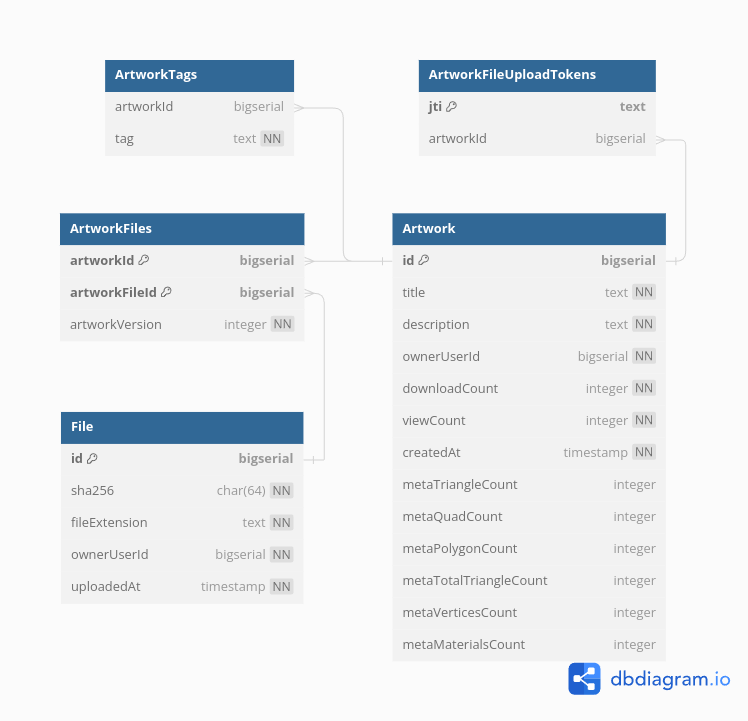
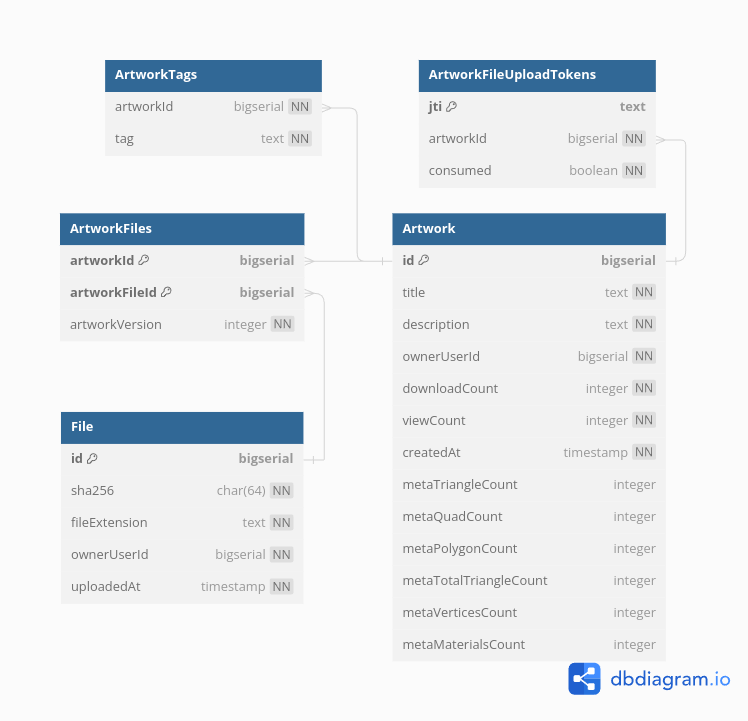
Updated tables (again again again)

Changed region(s): [[0.3075, 0.061, 0.4305, 0.2136], [0.7687, 0.1831, 0.861, 0.2441], [0.5842, 0.2136, 0.6457, 0.2441]]

diff --git a/mkdocs/site/developers/database/tables/index.html b/mkdocs/site/developers/database/tables/index.html
@@ -171,8 +171,9 @@ Table ArtworkTags {
   tag text [not null]
 }
 
-Table ConsumedArtworkFileUploadTokens {
+Table ArtworkFileUploadTokens {
   jti text [pk]
+  artworkId bigserial [ref: &gt; Artwork.id]
 }
 </code></pre>
               

diff --git a/mkdocs/site/index.html b/mkdocs/site/index.html
@@ -180,5 +180,5 @@
 
 <!--
 MkDocs version : 1.4.2
-Build Date UTC : 2024-03-21 07:35:10.167443+00:00
+Build Date UTC : 2024-03-21 08:08:26.969915+00:00
 -->

diff --git a/mkdocs/docs/developers/database/tables.md b/mkdocs/docs/developers/database/tables.md
@@ -47,12 +47,17 @@ Table ArtworkFiles {
 }
 
 Table ArtworkTags {
-  artworkId bigserial [ref: > Artwork.id]
+  artworkId bigserial [ref: > Artwork.id, not null]
   tag text [not null]
+
+  Indexes {
+    (artworkId, tag) [unique]
+  }
 }
 
 Table ArtworkFileUploadTokens {
   jti text [pk]
-  artworkId bigserial [ref: > Artwork.id]
+  artworkId bigserial [ref: > Artwork.id, not null]
+  consumed boolean [not null, default: FALSE]
 }
 ```
